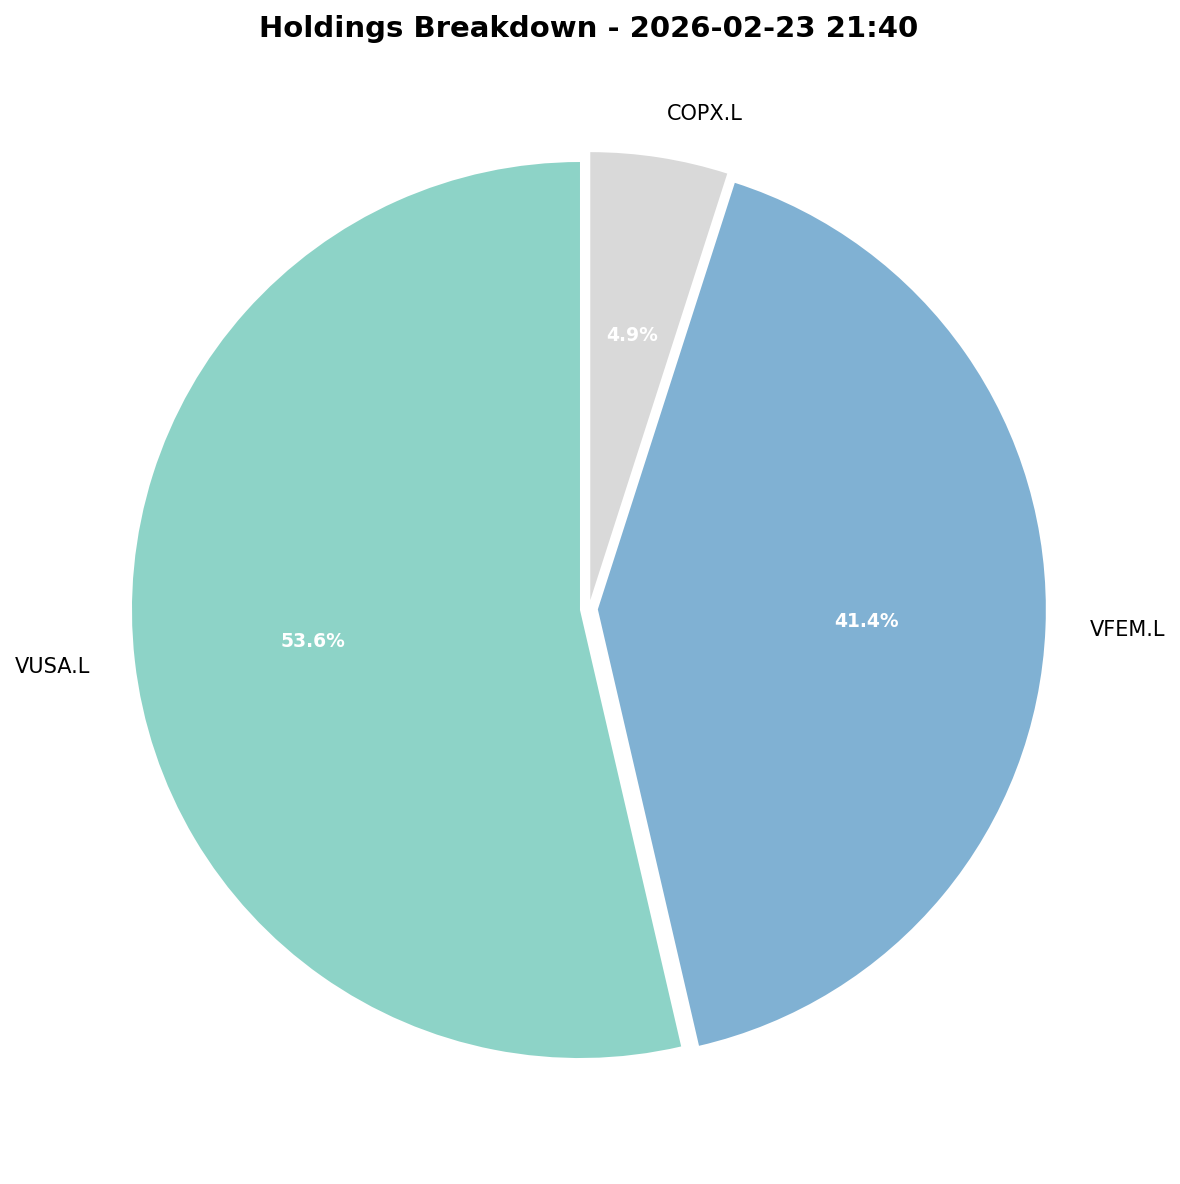
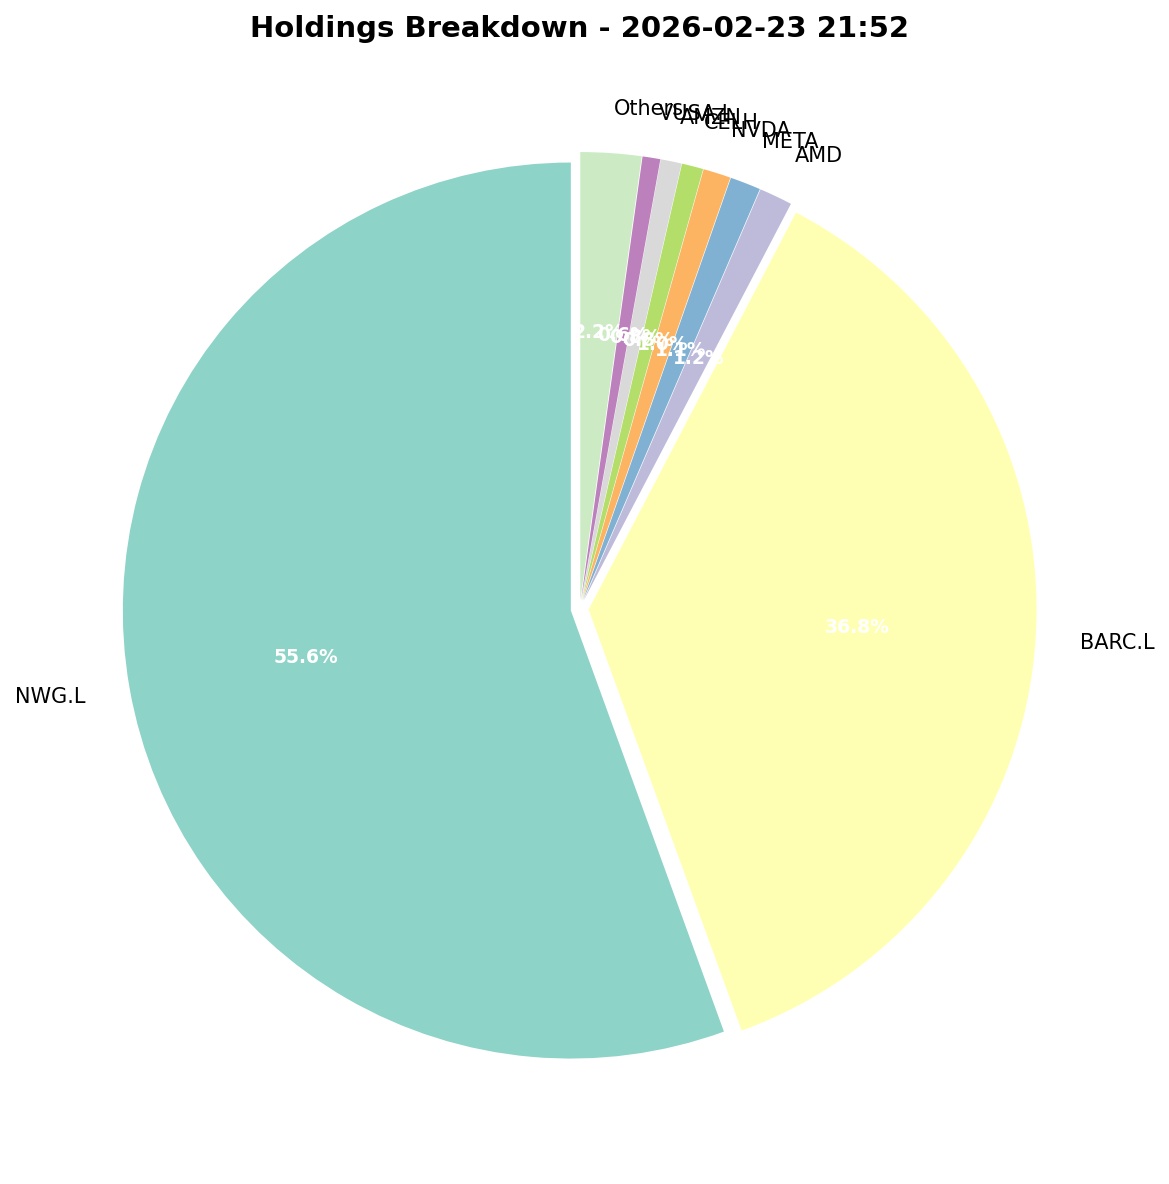
fix: analyze both Invest + ISA accounts, fix file saving
- Fetch holdings from both T212 accounts
- Combine and deduplicate holdings
- Fix ticker parsing for ISA holdings
- Fix daily_report.json saving in pipeline
- Full analysis now: 16 holdings, confidence 5.5/10

diff --git a/tracker.py b/tracker.py
@@ -22,6 +22,7 @@ import os
 T212_INVEST_KEY = os.getenv("T212_INVEST_KEY", "")
 T212_INVEST_SECRET = os.getenv("T212_INVEST_SECRET", "")
 T212_ISA_KEY = os.getenv("T212_ISA_KEY", "")
+T212_ISA_SECRET = os.getenv("T212_ISA_SECRET", "")
 TAVILY_API_KEY = os.getenv("TAVILY_API_KEY", "")
 
 # Discord config - load from environment
@@ -51,13 +52,51 @@ def get_t212_holdings(key_id: str, secret: str) -> list:
     }
     
     # Ticker mapping for UK/EU stocks
+    # Format: T212 ticker -> Yahoo Finance ticker
     ticker_map = {
         "VFEGl_EQ": "VFEM.L",
         "COPXl_EQ": "COPX.L",
         "VUAGl_EQ": "VUSA.L",
         "NWGl_EQ": "NWG.L",
-        "BARCl_EQ": "BARC.L"
+        "BARCl_EQ": "BARC.L",
+        "RBSl_EQ": "NWG.L",  # RBS -> NatWest
     }
+    
+    def parse_ticker(ticker_full: str) -> str:
+        """Parse T212 ticker format to standard ticker"""
+        # Check mapping first
+        if ticker_full in ticker_map:
+            return ticker_map[ticker_full]
+        
+        # Parse: AMDd_EQ -> AMD, FB_US_EQ -> META, etc.
+        base = ticker_full.split("_")[0]
+        
+        # Remove trailing d/l from UK stocks (AMDd -> AMD, BARCl -> BARC)
+        if base.endswith("d") or base.endswith("l"):
+            base = base[:-1]
+        
+        # Handle US stocks - convert to standard format
+        # FB_US -> META, AMZ -> AMZN, etc.
+        known_us = {
+            "FB": "META",
+            "AMZ": "AMZN",
+            "NVD": "NVDA",
+            "MSF": "MSFT",
+            "ASM": "ASML",
+            "TT8": "TTD",
+            "UT8": "UBER",
+            "ABE": "ABEA",  # maybe typo
+            "ORC": "ORCL",
+            "ORCd": "ORCL",
+            "YND": "YNDX",
+            "1YD": "YNDX",
+            "FB2A": "META",
+        }
+        
+        if base in known_us:
+            return known_us[base]
+        
+        return base
     
     try:
         resp = requests.get(url, headers=headers, timeout=10)
@@ -66,19 +105,8 @@ def get_t212_holdings(key_id: str, secret: str) -> list:
             holdings = []
             for pos in positions:
                 instrument = pos.get("instrument", {})
-                # Parse ticker from instrument (e.g., "VFEGl_EQ" -> "VFEM.L")
                 ticker_full = instrument.get("ticker", "")
-                
-                # Check mapping first, then fall back to parsing
-                ticker = ticker_map.get(ticker_full, "")
-                if not ticker:
-                    # Parse: VFEGl_EQ -> VFE -> handle suffix
-                    base_ticker = ticker_full.split("_")[0] if ticker_full else ""
-                    # Remove trailing 'l' from UK stocks
-                    if base_ticker.endswith("l"):
-                        ticker = base_ticker[:-1] + ".L"
-                    else:
-                        ticker = base_ticker
+                ticker = parse_ticker(ticker_full)
                 
                 holdings.append({
                     "ticker": ticker,
@@ -97,6 +125,33 @@ def get_t212_holdings(key_id: str, secret: str) -> list:
     except Exception as e:
         print(f"T212 API exception: {e}")
         return []
+
+
+def get_all_holdings() -> tuple:
+    """Fetch holdings from both Invest and ISA accounts"""
+    invest_holdings = get_t212_holdings(T212_INVEST_KEY, T212_INVEST_SECRET)
+    isa_holdings = get_t212_holdings(T212_ISA_KEY, T212_ISA_SECRET)
+    
+    # Combine and deduplicate by ticker
+    combined = {}
+    
+    for h in invest_holdings:
+        ticker = h["ticker"]
+        if ticker in combined:
+            combined[ticker]["quantity"] += h["quantity"]
+            combined[ticker]["total_value"] += h["total_value"]
+        else:
+            combined[ticker] = h
+    
+    for h in isa_holdings:
+        ticker = h["ticker"]
+        if ticker in combined:
+            combined[ticker]["quantity"] += h["quantity"]
+            combined[ticker]["total_value"] += h["total_value"]
+        else:
+            combined[ticker] = h
+    
+    return list(combined.values()), len(invest_holdings), len(isa_holdings)
 
 def get_t212_account(key_id: str, secret: str) -> dict:
     """Fetch account cash balance"""
@@ -237,13 +292,15 @@ def search_news(ticker: str, company_name: str) -> list:
         return []
 
 def analyze_portfolio() -> dict:
-    """Main analysis function - uses real T212 holdings"""
-    # First, fetch real holdings from Trading212
+    """Main analysis function - uses real T212 holdings from both accounts"""
+    # Fetch holdings from both Invest and ISA
     print("Fetching holdings from Trading212...")
-    t212_holdings = get_t212_holdings(T212_INVEST_KEY, T212_INVEST_SECRET)
-    account_info = get_t212_account(T212_INVEST_KEY, T212_INVEST_SECRET)
+    all_holdings, invest_count, isa_count = get_all_holdings()
     
-    print(f"Found {len(t212_holdings)} positions in T212")
+    # Get account info from ISA (main account)
+    account_info = get_t212_account(T212_ISA_KEY, T212_ISA_SECRET)
+    
+    print(f"Found {len(all_holdings)} total positions (Invest: {invest_count}, ISA: {isa_count})")
     
     report = {
         "timestamp": datetime.now().strftime("%Y-%m-%d %H:%M"),
@@ -251,6 +308,10 @@ def analyze_portfolio() -> dict:
         "portfolio_value": 0,
         "cash_balance": account_info.get("amount", 0) if account_info else 0,
         "account": account_info,
+        "accounts": {
+            "invest": invest_count,
+            "isa": isa_count
+        },
         "summary": {
             "total": 0,
             "bullish": 0,
@@ -259,11 +320,11 @@ def analyze_portfolio() -> dict:
         }
     }
     
-    # If no T212 holdings, fall back to static list
-    tickers_to_analyze = [h["ticker"] for h in t212_holdings] if t212_holdings else STOCKS
+    # Use T212 holdings if available, else fall back to static list
+    tickers_to_analyze = [h["ticker"] for h in all_holdings] if all_holdings else STOCKS
     
     # Build ticker to holding mapping
-    holding_map = {h["ticker"]: h for h in t212_holdings}
+    holding_map = {h["ticker"]: h for h in all_holdings}
     
     # Company names for news search
     company_names = {

diff --git a/run_full_analysis.py b/run_full_analysis.py
@@ -79,11 +79,18 @@ def run_full_analysis() -> dict:
     # Step 1: Technical Analysis
     print("\n[1/4] Running technical analysis...")
     report = analyze_portfolio()
+    
+    # Save the report
+    report_file = SCRIPT_DIR / "daily_report.json"
+    with open(report_file, "w") as f:
+        json.dump(report, f, indent=2, default=str)
+    
     results["steps"]["technical"] = {
         "status": "success",
-        "holdings_count": len(report.get("holdings", []))
+        "holdings_count": len(report.get("holdings", [])),
+        "portfolio_value": report.get("portfolio_value", 0)
     }
-    print(f"   ✓ Analyzed {len(report.get('holdings', []))} holdings")
+    print(f"   ✓ Analyzed {len(report.get('holdings', []))} holdings (£{report.get('portfolio_value', 0):,.2f})")
     
     # Step 2: Find RSI alerts and extract fundamentals
     print("\n[2/4] Checking for RSI alerts and extracting fundamentals...")
